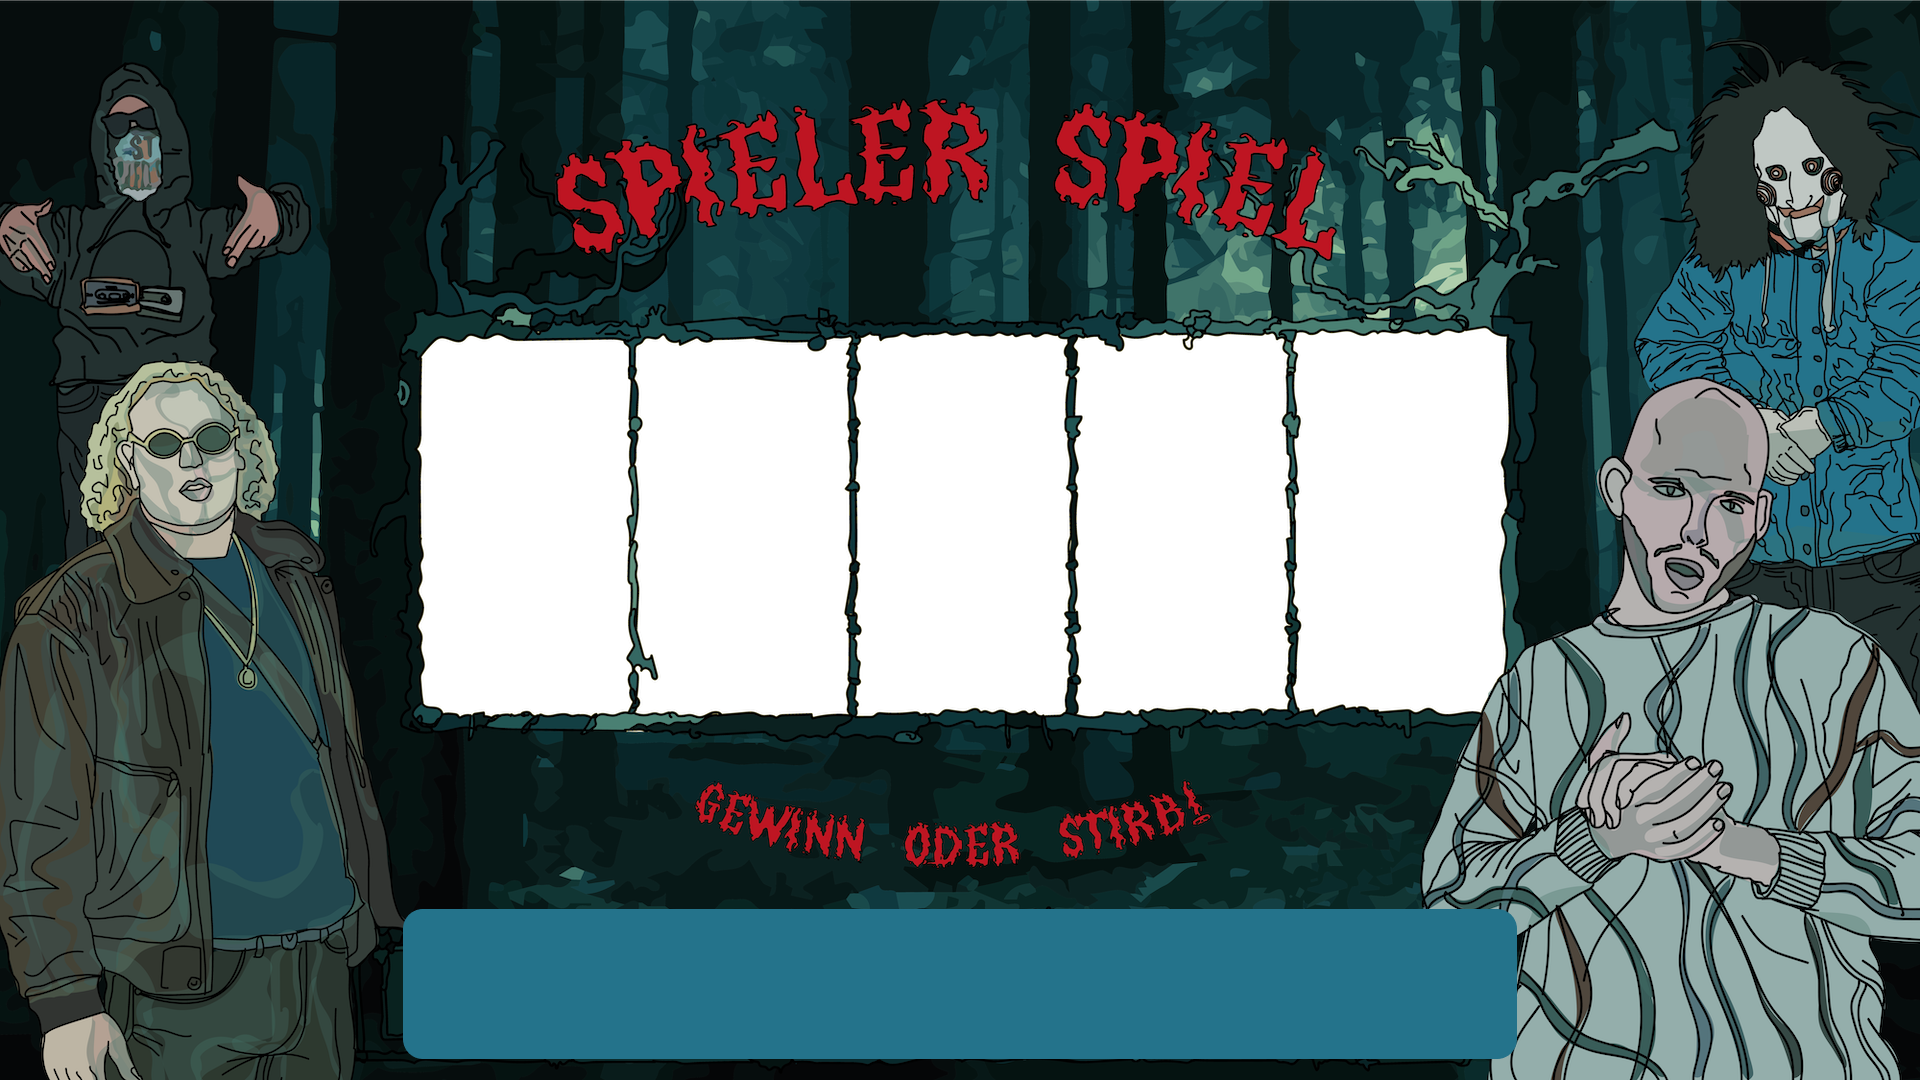
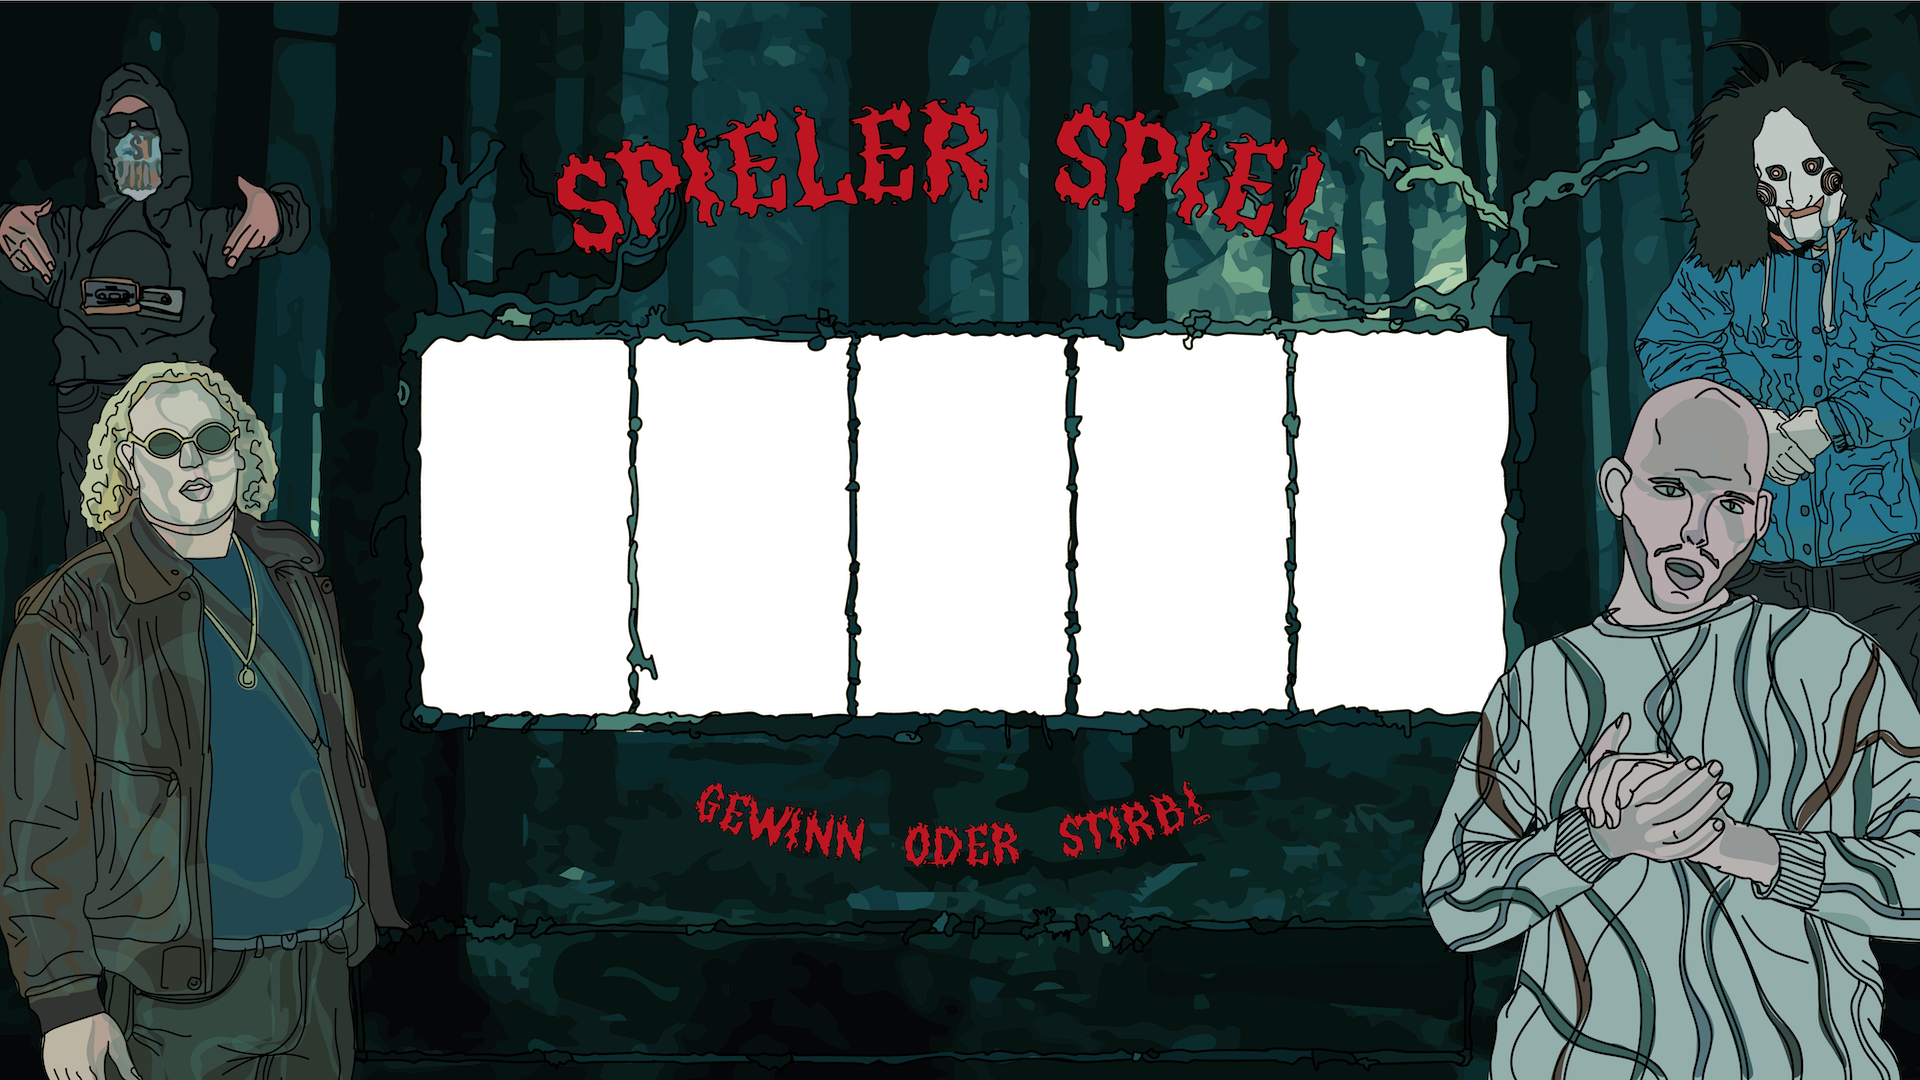
add improvements

Changed region(s): [[0.1875, 0.825, 0.8125, 1.0]]

diff --git a/slotmachine/sketch.js b/slotmachine/sketch.js
@@ -1,21 +1,18 @@
 function setup(){
-  createCanvas(windowWidth,windowHeight);
-  imageMode(CENTER);
-  bcg = loadImage("./slotmachine/sources/slots/background.png");
-  icons=[];
-  loadIcons();
+  checkSize();
 
-  positions = [];
-  for(var i=0; i< 5; i++){
-    position = new Position(windowWidth/2-windowWidth/9*2+i*windowWidth/9);
-    positions.push(position);
-  }
+  gameWidth= windowWidth;
+  gameHeigth= windowWidth/(16/9);
 
-  stopPosition=-1;
-  restart = false;
+  createCanvas(gameWidth,gameHeigth);
 
-  btn = select('#play')
-  home = select('#home')
+  btn = select('#playButton');
+  btn.style('left', gameWidth*0.5+'px');
+  btn.style('top', gameHeigth*0.85+'px');
+
+  home = select('#homeButton');
+  home.style('left', gameWidth*0.5+'px');
+  home.style('top', gameHeigth*0.25+'px');
 
   btn.mousePressed(function(){
     if(!restart){
@@ -29,6 +26,21 @@ function setup(){
     }
     restart = !restart;
   })
+
+
+  imageMode(CENTER);
+  bcg = loadImage("./slotmachine/sources/slots/background.png");
+  icons=[];
+  loadIcons();
+
+  positions = [];
+  for(var i=0; i< 5; i++){
+    position = new Position(gameWidth/2-gameWidth/9*2+i*gameWidth/9);
+    positions.push(position);
+  }
+
+  stopPosition=-1;
+  restart = false;
 }
 
 function createTimeout(i){
@@ -44,7 +56,7 @@ function createTimeout(i){
 
 function draw(){
   background(100);
-  image(bcg,windowWidth/2, windowHeight/2, windowWidth, windowHeight);
+  image(bcg,gameWidth/2, gameHeigth/2, gameWidth, gameHeigth);
 
   for(var i=0; i<positions.length; i++){
     if(stopPosition<i){
@@ -62,7 +74,7 @@ class Icon{
     this.img=img;
   }
   display(xPosition){
-    image(this.img,xPosition,windowHeight/2,windowWidth/10,windowWidth/10)
+    image(this.img,xPosition,gameHeigth/2,gameWidth/10,gameWidth/10)
   }
 }
 
@@ -97,19 +109,30 @@ function checkWin(){
     win=true;
   }
   if(win){
-    alert("You've won!")
+    alert("Du hast gewonnen!! Sende uns eine Mail an healthyego@icloud.com mit einem Screenshot vom letzten Durchgang. Es wartet ein toller Gewinn auf dich!")
   }else{
-    alert("No Win for you! Try again")
+    alert("Pech gehabt! Versuch's nochmal.")
   }
 }
 
 function checkSameIcon(){
-  sameIcon=false;
-  for(var i=0; i<positions.length; i++){
-    if(!positions[0].icon.id==positions[i].icon.id){
-      sameIcon=false;
-      break;
-    }
+  if(
+    positions[0].icon.id == positions[1].icon.id &&
+    positions[0].icon.id == positions[2].icon.id &&
+    positions[0].icon.id == positions[3].icon.id &&
+    positions[0].icon.id == positions[4].icon.id){
+    return true;
+  }else {
+    return false;
   }
-  return sameIcon
+}
+
+function checkSize(){
+  btnImgS = select('#playButtonImgSmall');
+  btnImgL = select('#playButtonImgLarge');
+  if(windowWidth/windowHeight < 1){
+    alert("Nutze die Desktop Version oder drehe dein Gerät in den Landscape-Modus.");
+    btnImgS.style('visibility','visible');
+    btnImgL.style('visibility','hidden');
+  }
 }

diff --git a/slotmachine/style.css b/slotmachine/style.css
@@ -1,27 +1,34 @@
-button {
-  width: 15%;
-  height: 5%;
+#playButton{
   cursor: pointer;
-  top: 90%;
+  background-color: transparent;
   border: none;
-  color: white;
-  text-align: center;
-  text-decoration: none;
   display: inline-block;
-  font-size: 20px;
+  position: absolute;
+  transform: translate(-50%,-50%);
+}
+
+#playButtonImgSmall{
+  visibility: hidden;
+}
+
+#playButtonImgLarge{
+  visibility: visible;
+}
+
+#homeButton{
+  cursor: pointer;
+  position: absolute;
+  transform: translate(-50%,-50%);
+  color: #BE1321;
+  text-decoration: none;
   font-weight: bold;
+  font-family: helvetica;
+  font-size: 20pt;
+
+
 }
 
-
-#play{
-  background-color: red;
-  position: absolute;
-  left: 52%;
-}
-
-#home{
-  background-color: green;
-  position: absolute;
-  left: 33%;
-
+body{
+  margin: 0;
+  background-color: #070D0D;
 }

diff --git a/slotmachine.html b/slotmachine.html
@@ -10,7 +10,10 @@
     <script src="./slotmachine/sketch.js" type="text/javascript"></script>
   </head>
   <body>
-      <button id="play" >Play</button>
-      <button id="home" onclick="window.location.href = 'https://www.healthyego.studio';">Home</button>
+      <button id="playButton">
+        <img id="playButtonImgSmall" src="./slotmachine/sources/slots/playbutton.pdf">
+        <img id="playButtonImgLarge" src="./slotmachine/sources/slots/playbutton.pdf">
+      </button>
+      <a id="homeButton" href="https://www.healthyego.studio">HEALTHY EGO</a>
    </body>
 </html>
